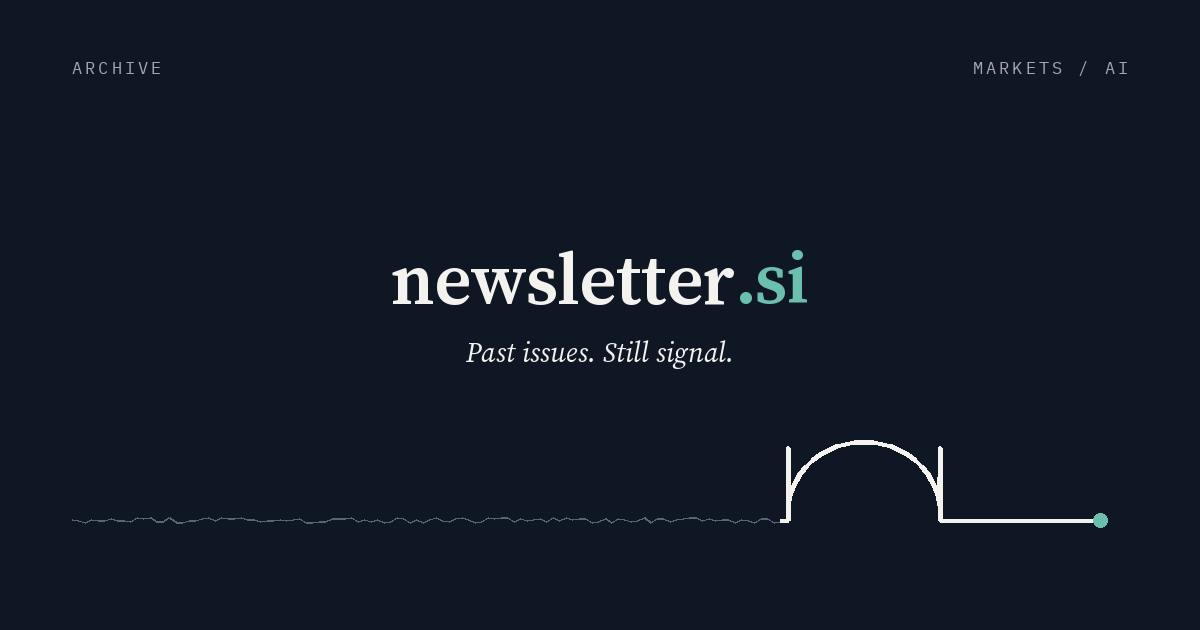
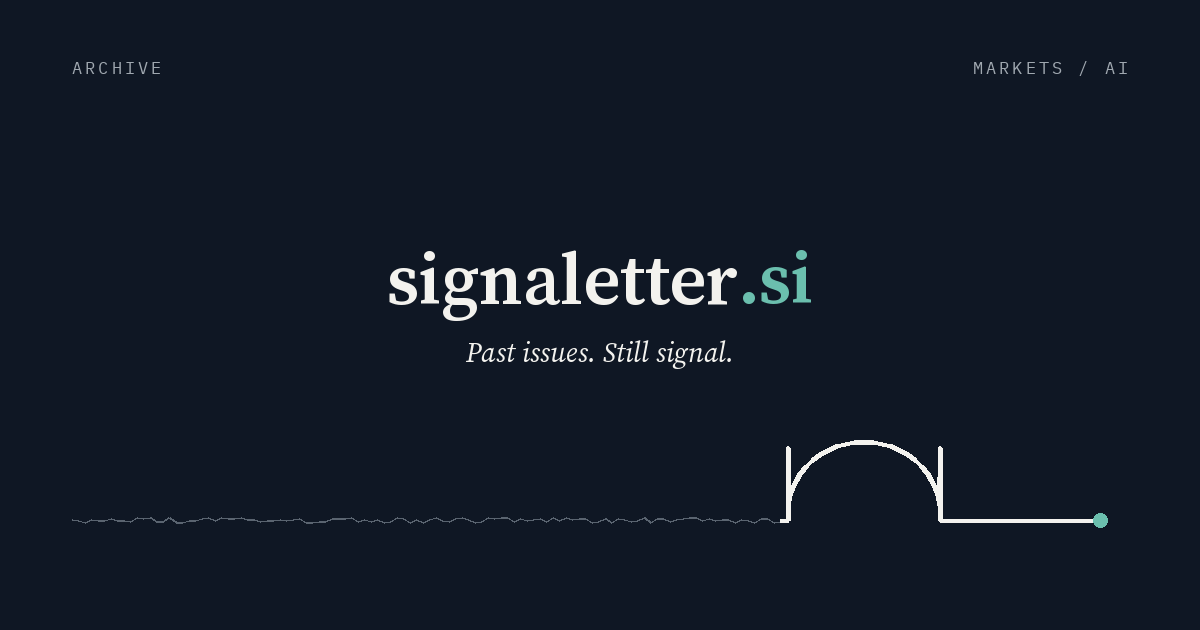
Rename site to signaletter.si (#20)
Update title, baseurl, manifests, social meta, brand wordmarks/labels,
README, scripts, and regenerated OG cards for the upcoming GitHub Pages
move to nick-nguyen-ai.github.io/signaletter.si/. Keep Direction C mark
and tagline; leave prototype/ and non-site 'newsletter' prose alone.

Changed region(s): [[0.3083, 0.3921, 0.6783, 0.5127]]

diff --git a/_includes/social-meta.html b/_includes/social-meta.html
@@ -1,5 +1,5 @@
 {%- comment -%}
-  Open Graph + Twitter cards. Absolute https URLs for the /newsletter.si baseurl.
+  Open Graph + Twitter cards. Absolute https URLs for the /signaletter.si baseurl.
   Does not use jekyll-seo-tag social output (avoids duplicates).
 {%- endcomment -%}
 
@@ -10,21 +10,21 @@
 
 {%- comment -%} Title rules {%- endcomment -%}
 {%- if is_home -%}
-  {%- assign social_title = "newsletter.si" -%}
+  {%- assign social_title = "signaletter.si" -%}
 {%- elsif page.section == "ai" -%}
-  {%- capture social_title -%}AI · {{ page.date | date: "%a %-d %b %Y" }} · newsletter.si{%- endcapture -%}
+  {%- capture social_title -%}AI · {{ page.date | date: "%a %-d %b %Y" }} · signaletter.si{%- endcapture -%}
 {%- elsif page.section == "markets" -%}
-  {%- capture social_title -%}Markets · {{ page.date | date: "%a %-d %b %Y" }} · newsletter.si{%- endcapture -%}
+  {%- capture social_title -%}Markets · {{ page.date | date: "%a %-d %b %Y" }} · signaletter.si{%- endcapture -%}
 {%- elsif page.topic == "markets" or page.nav_active == "markets" -%}
-  {%- assign social_title = "Markets · newsletter.si" -%}
+  {%- assign social_title = "Markets · signaletter.si" -%}
 {%- elsif page.topic == "ai" or page.nav_active == "ai" -%}
-  {%- assign social_title = "AI · newsletter.si" -%}
+  {%- assign social_title = "AI · signaletter.si" -%}
 {%- elsif page.nav_active == "archive" or page.url == "/archive/" -%}
-  {%- assign social_title = "Archive · newsletter.si" -%}
+  {%- assign social_title = "Archive · signaletter.si" -%}
 {%- elsif page.title and page.title != site.title -%}
-  {%- assign social_title = page.title | append: " · newsletter.si" -%}
+  {%- assign social_title = page.title | append: " · signaletter.si" -%}
 {%- else -%}
-  {%- assign social_title = "newsletter.si" -%}
+  {%- assign social_title = "signaletter.si" -%}
 {%- endif -%}
 {%- assign social_title = social_title | strip -%}
 
@@ -80,7 +80,7 @@
 <meta property="og:title" content="{{ social_title | xml_escape }}">
 <meta property="og:description" content="{{ social_description | xml_escape }}">
 <meta property="og:url" content="{{ social_url }}">
-<meta property="og:site_name" content="newsletter.si">
+<meta property="og:site_name" content="signaletter.si">
 <meta property="og:type" content="{{ og_type }}">
 <meta property="og:image" content="{{ og_image_abs }}">
 <meta property="og:image:width" content="1200">

diff --git a/_includes/top-nav.html b/_includes/top-nav.html
@@ -20,7 +20,7 @@
           <img class="site-brand__mark-ink" src="{{ '/assets/brand/mark-app-ink.svg' | relative_url }}" width="32" height="32" alt="">
           <img class="site-brand__mark-paper" src="{{ '/assets/brand/mark-app-paper.svg' | relative_url }}" width="32" height="32" alt="">
         </span>
-        <span class="site-brand__word">newsletter<span class="site-brand__tld">.si</span></span>
+        <span class="site-brand__word">signaletter<span class="site-brand__tld">.si</span></span>
       </span>
       <span class="site-brand__motto">Signal over noise.</span>
     </a>

diff --git a/assets/js/share.js b/assets/js/share.js
@@ -114,7 +114,7 @@
     var panel = ensureFallback();
     panel._shareSource = sourceEl || null;
     var enc = encodeURIComponent;
-    // URL only — never prepend titles containing a bare "newsletter.si" token
+    // URL only — never prepend titles containing a bare "signaletter.si" token
     // (messaging apps auto-link it to the unrelated Slovenian site).
     panel.querySelector("[data-share-wa]").href = "https://wa.me/?text=" + enc(url);
     panel.querySelector("[data-share-x]").href =

diff --git a/_layouts/default.html b/_layouts/default.html
@@ -48,7 +48,7 @@
           <span class="site-footer__mark" aria-hidden="true">
             <img src="{{ '/assets/brand/mark-app-ink.svg' | relative_url }}" width="24" height="24" alt="">
           </span>
-          <span class="site-footer__word">newsletter<span class="site-footer__tld">.si</span></span>
+          <span class="site-footer__word">signaletter<span class="site-footer__tld">.si</span></span>
         </a>
         <p class="site-footer__motto">Signal over noise.</p>
       </div>

diff --git a/_includes/share-button.html b/_includes/share-button.html
@@ -1,7 +1,7 @@
 {%- comment -%}
   Share control. Pass url optionally; defaults to page absolute URL.
   Title is intentionally omitted — Android messaging apps auto-link bare
-  "newsletter.si" tokens and preview the wrong (unrelated) site.
+  "signaletter.si" tokens and preview the wrong (unrelated) site.
 {%- endcomment -%}
 {% assign share_url = include.url %}
 {% if share_url == blank or share_url == nil %}

diff --git a/assets/css/markets.css b/assets/css/markets.css
@@ -1,4 +1,4 @@
-/* newsletter.si — Markets v2 (Direction C: Signal over noise). Mobile-first. */
+/* signaletter.si — Markets v2 (Direction C: Signal over noise). Mobile-first. */
 
 .mk { --mk-mono: var(--font-mono); --mk-gap: 0.5rem; }
 .mk-session { margin: 0.25rem 0 0; font-family: var(--mk-mono); font-size: 0.72rem; letter-spacing: 0.02em; color: var(--text-muted); text-transform: uppercase; }

diff --git a/archive.html b/archive.html
@@ -3,7 +3,7 @@ layout: default
 title: Archive
 nav_active: archive
 permalink: /archive/
-description: Browse all newsletter.si issues by month, topic, or search.
+description: Browse all signaletter.si issues by month, topic, or search.
 ---
 
 <section class="archive-page" data-archive-page>

diff --git a/index.html b/index.html
@@ -1,7 +1,7 @@
 ---
 layout: default
 nav_active: home
-# No page title — home SEO uses site.title (newsletter.si)
+# No page title — home SEO uses site.title (signaletter.si)
 ---
 
 <section class="landing" aria-labelledby="landing-heading">

diff --git a/assets/css/style.css b/assets/css/style.css
@@ -1,4 +1,4 @@
-/* newsletter.si — Direction C: Signal over noise. */
+/* signaletter.si — Direction C: Signal over noise. */
 
 :root {
   --ink: #0f1724;

diff --git a/scripts/fetch_markets.py b/scripts/fetch_markets.py
@@ -1,5 +1,5 @@
 #!/usr/bin/env python3
-"""Deterministic market-data collector for newsletter.si Markets v2.
+"""Deterministic market-data collector for signaletter.si Markets v2.
 
 Builds the `snapshot` block of a Markets post (dashboard quotes + watchlist
 quotes) with full provenance. No LLM involved; no numbers are ever guessed.
@@ -33,7 +33,7 @@ from zoneinfo import ZoneInfo
 SYD = ZoneInfo("Australia/Sydney")
 NY = ZoneInfo("America/New_York")
 UTC = dt.timezone.utc
-UA = "Mozilla/5.0 (X11; Linux x86_64) newsletter.si-fetch/1.0"
+UA = "Mozilla/5.0 (X11; Linux x86_64) signaletter.si-fetch/1.0"
 
 LIC = {
     "rba": "RBA statistical tables, CC BY 4.0 (attribution: Reserve Bank of Australia).",

diff --git a/scripts/qa_markets.py b/scripts/qa_markets.py
@@ -1,5 +1,5 @@
 #!/usr/bin/env python3
-"""QA gate for newsletter.si Markets v2 posts.
+"""QA gate for signaletter.si Markets v2 posts.
 
 Policy (Nick, 18 Oct 2026): never block the whole issue. Failing claims or
 modules are DROPPED (or marked unavailable) and logged in `dropped`; the rest

diff --git a/scripts/generate_og.py b/scripts/generate_og.py
@@ -140,7 +140,7 @@ def draw_card(
 
     # Centered wordmark
     brand = font("SourceSerif4-Semibold.ttf", 72)
-    word = "newsletter"
+    word = "signaletter"
     tld = ".si"
     wb = d.textbbox((0, 0), word, font=brand)
     tb = d.textbbox((0, 0), tld, font=brand)
